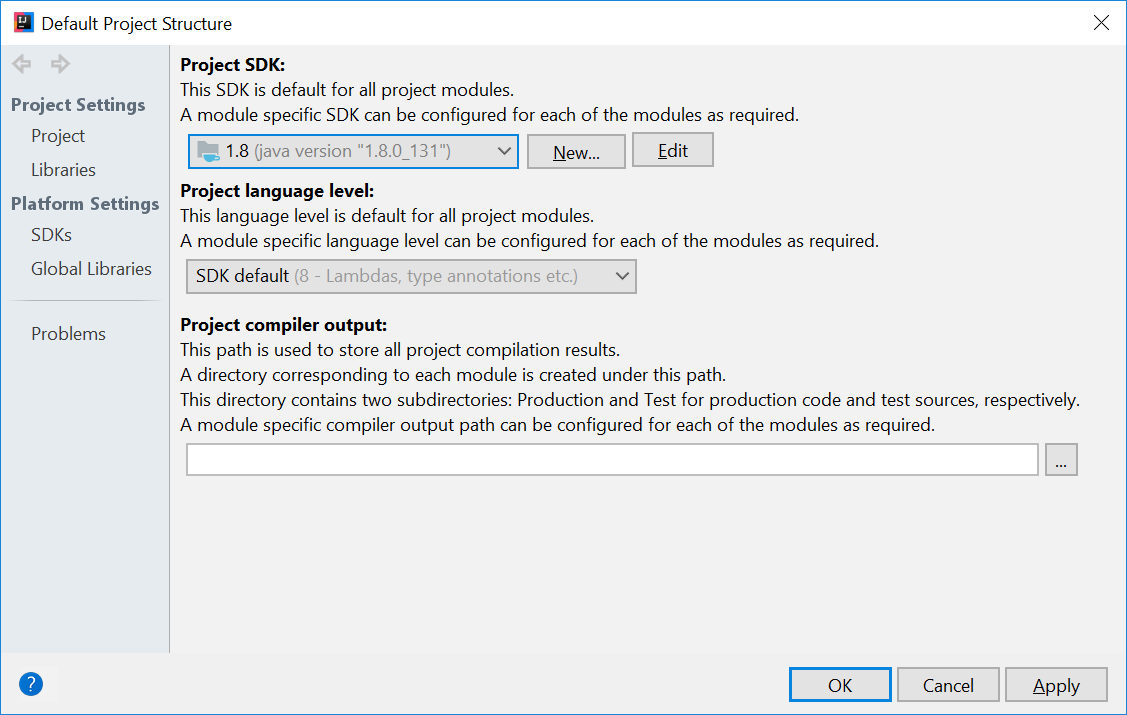
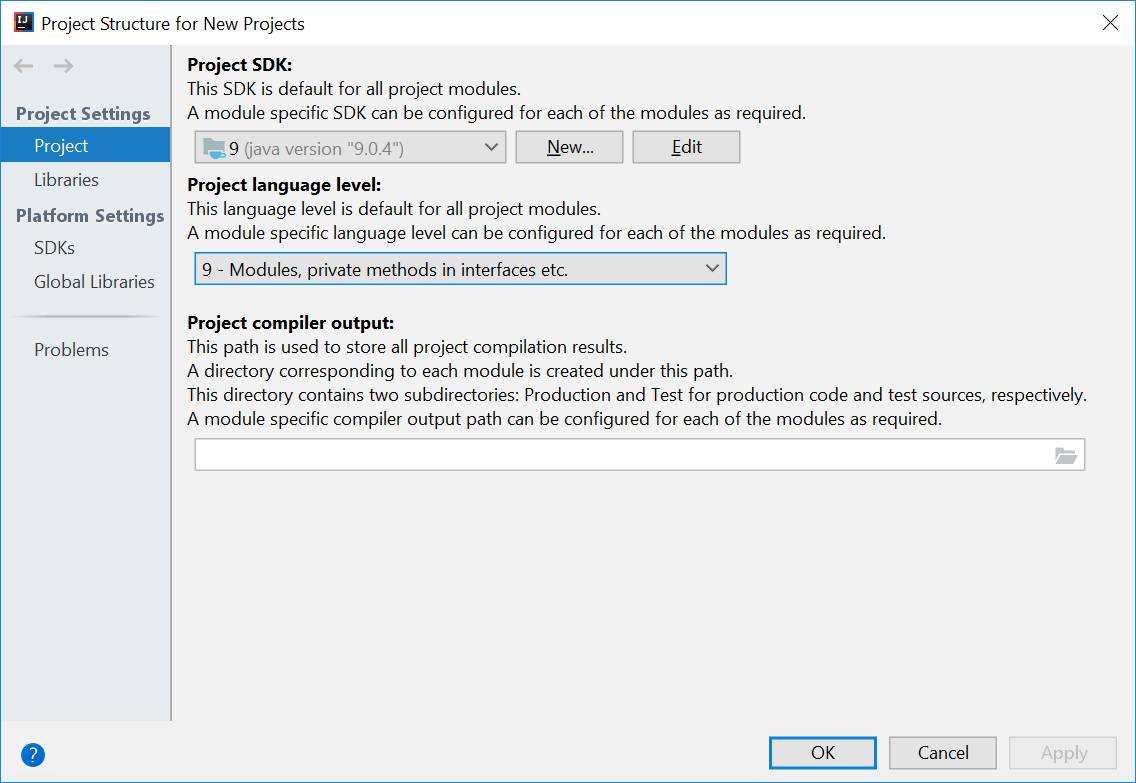
javaFXBasic: update to JavaFx 9 (#62)

diff --git a/javaTools/javaFXBasic/part01/part01.md b/javaTools/javaFXBasic/part01/part01.md
@@ -1,4 +1,4 @@
-# JavaFx 8 Tutorial - Part 1: Scene Builder
+# JavaFx 9 Tutorial - Part 1: Scene Builder
 
 ## Introduction
 
@@ -9,8 +9,8 @@ This tutorial will teach you how to create a new JavaFX application in IntelliJ,
 
 ## Prerequisites
 
-* Latest [Java JDK 8](http://www.oracle.com/technetwork/java/javase/downloads/index.html) (includes *JavaFX 8*)
-* IntelliJ (2017.2 or later)
+* Latest [Java JDK 9](http://www.oracle.com/technetwork/java/javase/downloads/java-archive-javase9-3934878.html) (includes *JavaFX 9*)
+* IntelliJ (2018.2 or later)
 * [SceneBuilder 8](http://gluonhq.com/products/scene-builder/) (provided by Gluon as [Oracle no longer ships the tool in binary form](http://www.oracle.com/technetwork/java/javase/downloads/sb2download-2177776.html))
 
 <tip-box type="tip">
@@ -21,9 +21,9 @@ Do remember the installation path to SceneBuilder 8 as we will need it to config
 
 ## IntelliJ Configurations
 
-If this is the first time using IntelliJ, you need to tell IntelliJ where to find JDK 8 and SceneBuilder.
+If this is the first time using IntelliJ, you need to tell IntelliJ where to find JDK 9 and SceneBuilder.
 
-### Configuring JDK 8
+### Configuring JDK 9
 
 1. On the Welcome screen, press `Configure` → `Project Default` → `Project Structure`.
 
@@ -34,8 +34,9 @@ If this is the first time using IntelliJ, you need to tell IntelliJ where to fin
 
 2. Under `Project SDK:`, press `New...` → `JDK`.
 3. Select the directory that you install JDK on, and press `OK`.
+4. Under `Project language level:`, select `9 - Modules, private methods in interfaces etc.`.
 
-  <img src="{{baseUrl}}/javaTools/javaFXBasic/part01/images/config-jdk-project-structure.png" alt="JDK 8 under Project Structure" height="350" />
+  <img src="{{baseUrl}}/javaTools/javaFXBasic/part01/images/config-jdk-project-structure.png" alt="JDK 9 under Project Structure" height="350" />
   <p/>
 
 4. Press `OK` again.
@@ -53,8 +54,8 @@ If this is the first time using IntelliJ, you need to tell IntelliJ where to fin
 
 The JavaDocs will come in handy when writing your own JavaFX applications:
 
-* [Java 8 API](http://docs.oracle.com/javase/8/docs/api/)
-* [JavaFX 8 API](http://docs.oracle.com/javase/8/javafx/api/)
+* [Java 9 API](https://docs.oracle.com/javase/9/docs/api)
+* [JavaFX 9 API](https://docs.oracle.com/javase/9/docs/api/overview-summary.html)
 * [ControlsFX API](http://controlsfx.bitbucket.org/)
 
 Additionally, [Oracle also has a tutorial on JavaFX](http://docs.oracle.com/javase/8/javafx/get-started-tutorial/get_start_apps.htm) if you are interested.
@@ -65,7 +66,7 @@ Additionally, [Oracle also has a tutorial on JavaFX](http://docs.oracle.com/java
 
 1. On the Welcome screen, press `Create New Project`.
   * If you already have a project, you can create a new project by going `File` → `New` → `Project...`.
-2. On the left side, select `JavaFX`. Make sure that the Project SDK is set to `1.8` and `JavaFX Application` is selected.
+2. On the left side, select `JavaFX`. Make sure that the Project SDK is set to `9` and `JavaFX Application` is selected.
 
   <img src="{{baseUrl}}/javaTools/javaFXBasic/part01/images/new-project.png" alt="New Project" height="350" />
   <p/>
@@ -75,6 +76,11 @@ Additionally, [Oracle also has a tutorial on JavaFX](http://docs.oracle.com/java
 5. Press `Finish`. If prompted to create a new directory, just press `OK`.
 
 Remove the `sample` package and its content. We will manually create our own package and resources in our tutorial.
+
+We will also have to set up the IDE further, so that warnings and errors show up correctly when working with Java 9:
+
+1. Go to the menu `File` → `Project Structure`.
+2. Under `Project language level:`, ensure that `9 - Modules, private methods in interfaces etc.` is selected.
 
 ## Create the Packages
 
@@ -119,7 +125,7 @@ If IntelliJ prompts for a location of the SceneBuilder executable, make sure to 
 <img src="{{baseUrl}}/javaTools/javaFXBasic/part01/images/design-scene-builder-main-anchor.png" height="350" />
 <p/>
 
-2. Add a `Split Pane (Horizontal Flow)` (under `Containers`) by dragging it from the Library into the main area. Right-click the `Split Pane` in the Hierarchy view and select `Fit to Parent`.
+2. Add a `Split Pane (horizontal)` (under `Containers`) by dragging it from the Library into the main area. Right-click the `Split Pane` in the Hierarchy view and select `Fit to Parent`.
 
 <img src="{{baseUrl}}/javaTools/javaFXBasic/part01/images/design-scene-builder-fit-to-parent.png" height="250" />
 <p/>
@@ -234,7 +240,7 @@ Image Source: http://www.oracle.com
 
 *It's like a theater play:* The `Stage` is the main container which is usually a `Window` with a border and the typical minimize, maximize and close buttons. Inside the `Stage` you add a `Scene` which can, of course, be switched out by another `Scene`. Inside the `Scene` the actual JavaFX nodes like `AnchorPane`, `TextBox`, etc. are added.
 
-See [this page](http://docs.oracle.com/javase/8/javafx/scene-graph-tutorial/scenegraph.htm) fore more info on working with the JavaFX Scene Graph.
+See [this page](http://docs.oracle.com/javase/8/javafx/scene-graph-tutorial/scenegraph.htm) for more info on working with the JavaFX Scene Graph.
 
 ---
 
@@ -317,6 +323,32 @@ public class MainApp extends Application {
 ```
 
 The various comments should give you some hints about what's going on.
+
+## Importing JavaFx 9
+
+JavaFx 9 is a separate module from Java 9. We must ensure that the modules are imported correctly.
+
+Notice that IntellJ will complain about the imported modules "not being in the module graph":
+
+<img src="{{baseUrl}}/javaTools/javaFXBasic/part01/images/javafx-import-error.png" height="100" />
+<p/>
+
+To fix this:
+
+1. Ensure that your Project pane is open (<kbd>Alt</kbd>+<kbd>1</kbd>). Right click on the `src` folder, and select `New` → `module-info.java`:
+2. Add the following `requires` and `exports` in order to import and export the modules correctly:
+
+```java
+module AddressApp {
+    requires javafx.graphics;
+    requires javafx.fxml;
+    requires javafx.controls;
+
+    exports seedu.address;
+}
+```
+
+## Running the Application
 
 If you run the application now (right click `MainApp.java` and select `Run MainApp.main()`), you should see something like this:
 

diff --git a/javaTools/javaFXBasic/part02/part02.md b/javaTools/javaFXBasic/part02/part02.md
@@ -1,4 +1,4 @@
-# JavaFx 8 tutorial - Part 2: Model and TableView
+# JavaFx 9 tutorial - Part 2: Model and TableView
 
 ## Introduction
 
@@ -135,7 +135,7 @@ public class Person {
 
 * With JavaFX, it is common to use `*Property` for all fields of a model class. A `Property` allows us, for example, to automatically be notified when the `lastName` or any other variable is changed. This helps us keep the view in sync with the data.
 * To learn more about `*Property`, refer to [Using JavaFX Properties and Binding](http://docs.oracle.com/javase/8/javafx/properties-binding-tutorial/binding.htm)
-* `LocalDate`, the type that we are using for `birthday`, is part of the [new Date and Time API for JDK 8](http://docs.oracle.com/javase/tutorial/datetime/iso/)
+* `LocalDate`, the type that we are using for `birthday`, is part of the [new Date and Time API since JDK 8](http://docs.oracle.com/javase/tutorial/datetime/iso/)
 
 ## A List of Persons
 
@@ -273,7 +273,7 @@ public class PersonOverviewController {
 * All fields and methods where the `.fxml` file needs access must be annotated with `@FXML`.
   * Actually, only if they are private, but it's better to have them private and mark them with the annotation!
 * The `initialize()` method is automatically called after the `.fxml` file has been loaded. At this time, all the FXML fields should have been initialized already.
-* The `setCellValueFactory(...)` that we set on the table colums are used to determine which field inside the `Person` objects should be used for the particular column. The arrow `->` indicates that we're using a Java 8 feature called Lambdas. (Another option would be to use a [`PropertyValueFactory`](http://docs.oracle.com/javase/8/javafx/api/), but this is not type-safe).
+* The `setCellValueFactory(...)` that we set on the table colums are used to determine which field inside the `Person` objects should be used for the particular column. The arrow `->` indicates that we're using a Java 8 feature called Lambdas. (Another option would be to use a [`PropertyValueFactory`](https://docs.oracle.com/javase/9/docs/api/javafx/scene/control/cell/PropertyValueFactory.html), but this is not type-safe).
 
 <tip-box type="tip">
 
@@ -356,6 +356,45 @@ We're almost there! But one thing is missing: We haven't told our `PersonOvervie
 <p/>
 
 7. Save the `.fxml` file.
+
+## Opening up the `PersonOverviewController` to JavaFx
+
+If you try and run the application now, you will encounter the following error:
+
+```
+javafx.fxml.LoadException: ...
+
+...
+
+Caused by: java.lang.IllegalAccessException: class javafx.fxml.FXMLLoader$ValueElement (in module javafx.fxml) cannot access class seedu.address.view.PersonOverviewController (in module AddressApp) because module AddressApp does not export seedu.address.view to module javafx.fxml
+```
+
+This is because JavaFx is unable to access our `PersonOverviewController` class.
+
+To fix this, add this line of code to `src/module-info.java`:
+
+```java
+module AddressApp {
+    ... 
+
+    opens seedu.address.view;
+}
+```
+
+The file should now look something like this:
+
+**module-info.java**
+
+```java
+module AddressApp {
+    requires javafx.graphics;
+    requires javafx.fxml;
+    requires javafx.controls;
+
+    exports seedu.address;
+    opens seedu.address.view;
+}
+```
 
 ## Start the Application
 

diff --git a/javaTools/javaFXBasic/main-page.md b/javaTools/javaFXBasic/main-page.md
@@ -1,4 +1,4 @@
-# JavaFx 8 tutorial
+# JavaFx 9 tutorial
 
 Adapted (with permissions) from [Marco Jakob's JavaFX 8 tutorial](http://code.makery.ch/library/javafx-8-tutorial/). Thanks to [Marco Jakob](https://github.com/marcojakob) for allowing us to adapt his tutorials for IntelliJ.
 
